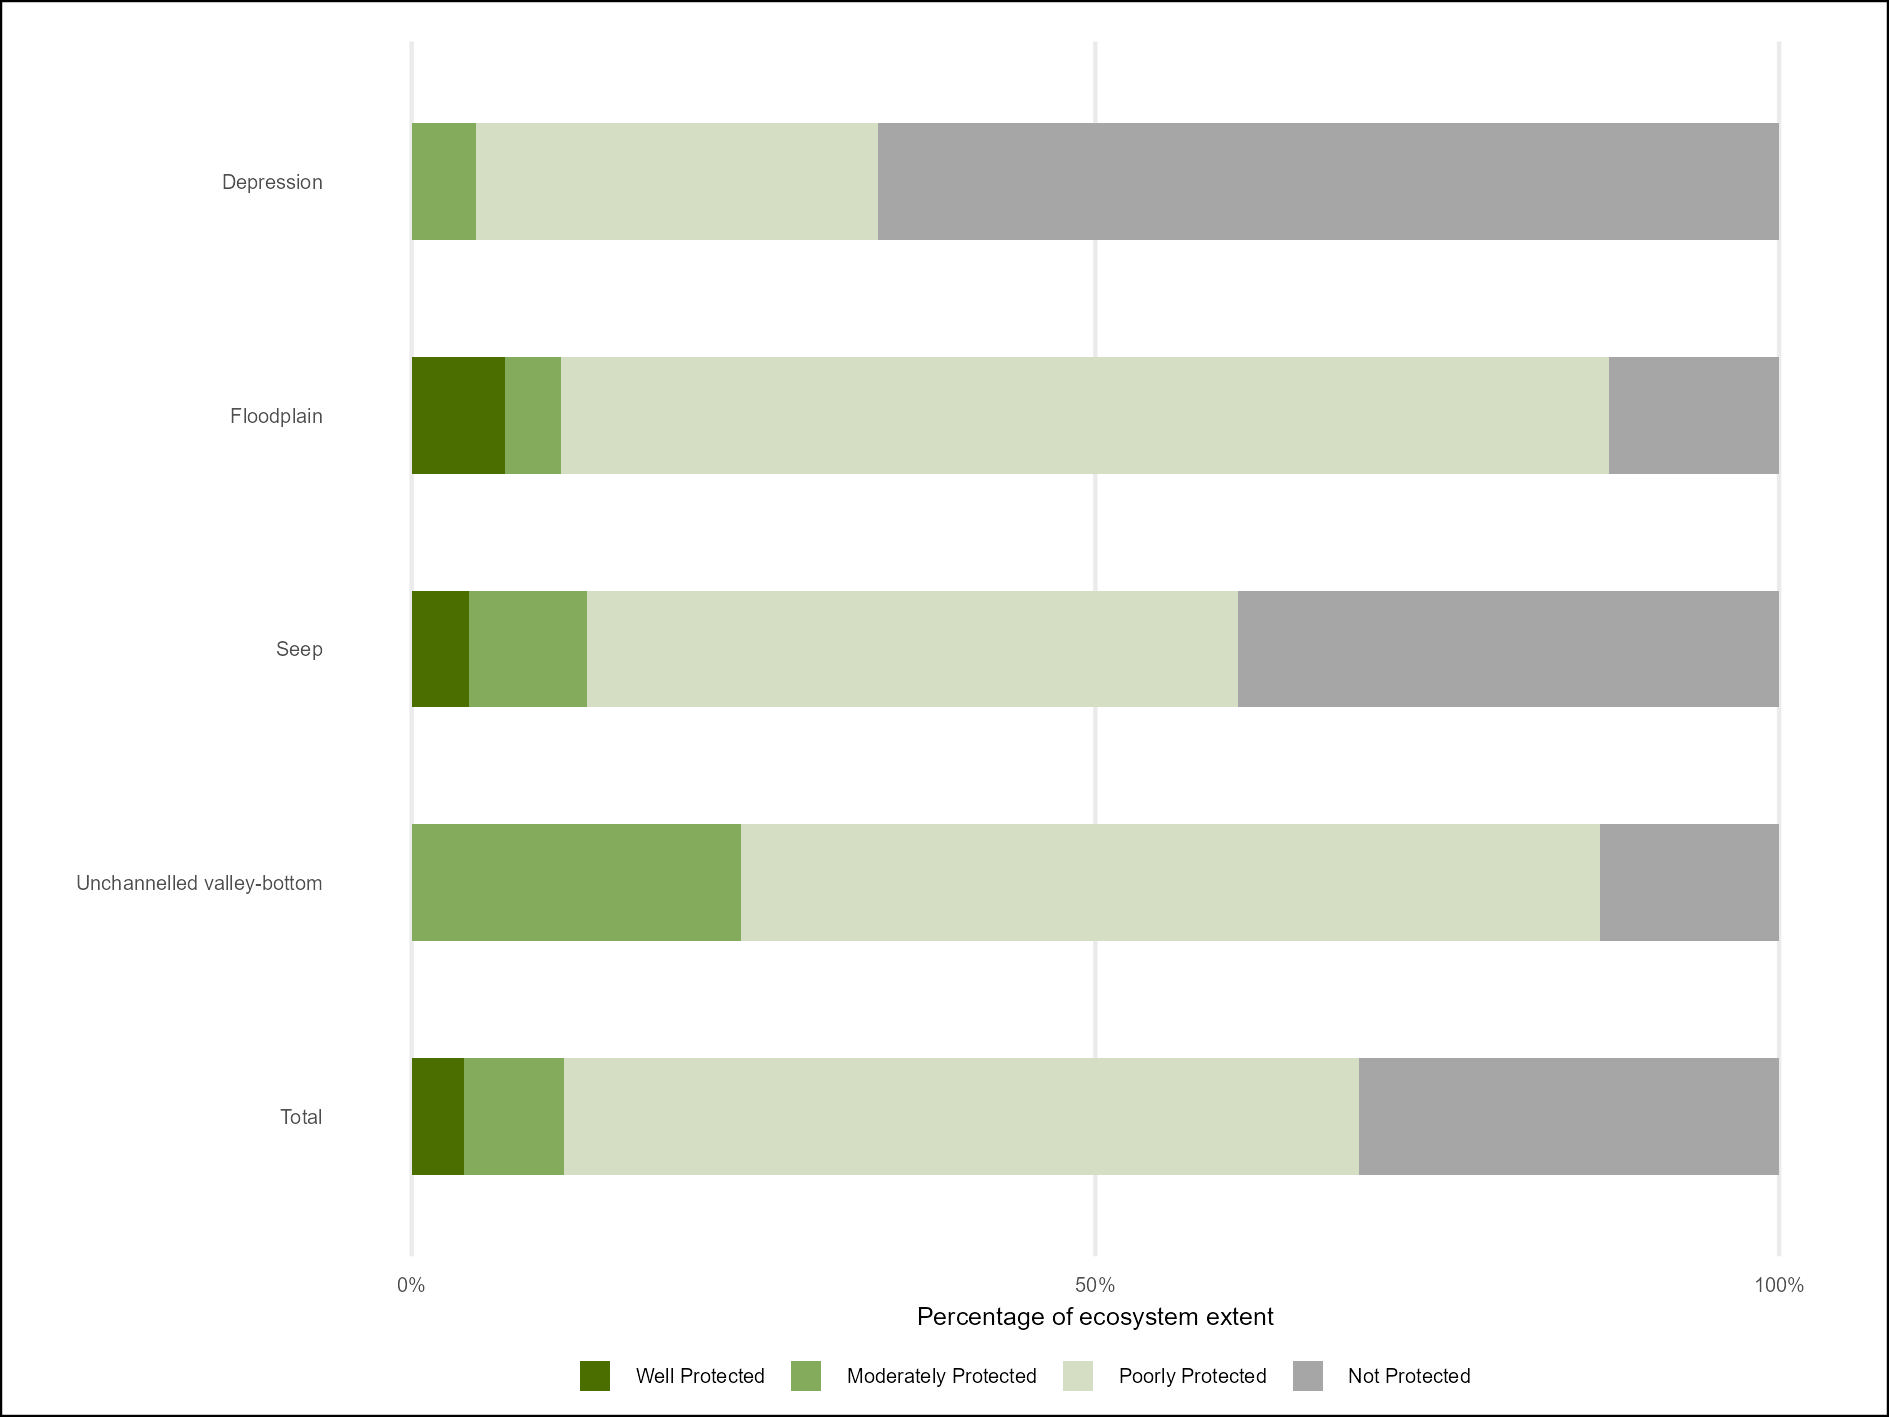
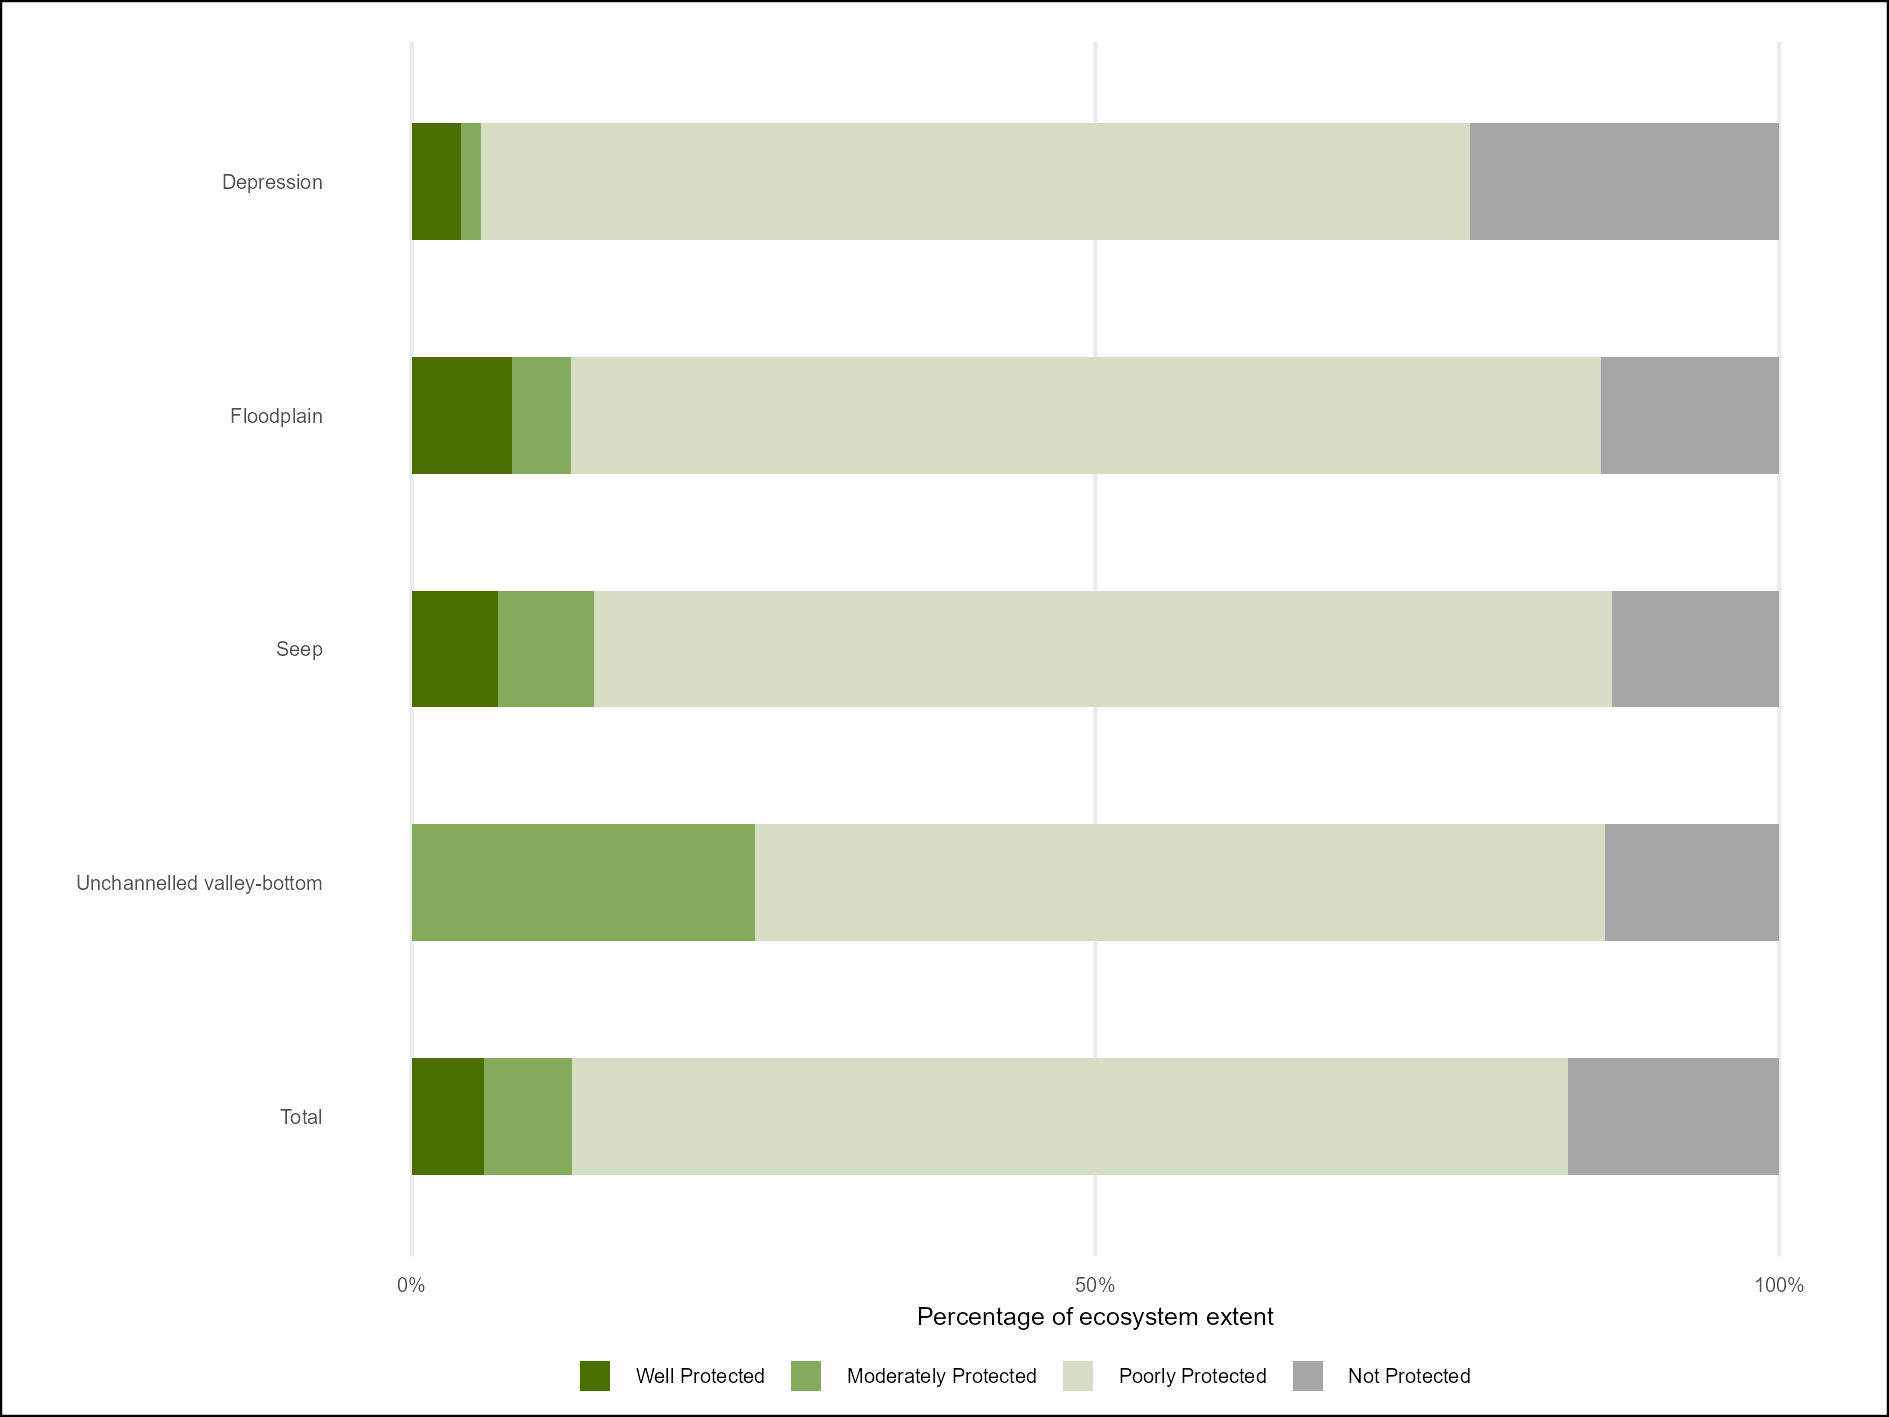
revise EPL model D+C 30% EF 10%

diff --git a/README.md b/README.md
@@ -16,22 +16,24 @@ Protection Level is an indicator developed in South Africa that measures the rep
 
 -   Well Protected: 100% of the PA target within PA network; and only A&B condition wetlands contribute
 
--   Moderately Protected: 50% to 99% of PA target within the PA network; and A&B condition wetlands contribute 100%, C condition wetlands contribute 50%, D condition wetlands contribute 30% and E&F condition wetlands contribute 10%
+-   Moderately Protected: 50% to 99% of PA target within the PA network; and A&B condition wetlands contribute 100%, C & D condition wetlands contribute 30%, E&F condition wetlands contribute 10%
 
--   Poorly Protected: 5% to 49% of PA target within the PA network; and A&B condition wetlands contribute 100%, C condition wetlands contribute 50%, D condition wetlands contribute 30% and E&F condition wetlands contribute 10%
+-   Poorly Protected: 5% to 49% of PA target within the PA network; and A&B condition wetlands contribute 100%, C & D condition wetlands contribute 30%, E&F condition wetlands contribute 10%
 
--   Not Protected: less than 5% of PA target within the PA network; and A&B condition wetlands contribute 100%, C condition wetlands contribute 50%, D condition wetlands contribute 30% and E&F condition wetlands contribute 10%
+-   Not Protected: less than 5% of PA target within the PA network; and A&B condition wetlands contribute 100%, C & D condition wetlands contribute 30%, E&F condition wetlands contribute 10%
 
-The PA target was historically set at 20% for freshwater ecosystems, but with the adoption of the 30% targets for Target 3 of the Global Biodiversity Framework - the PA target was increased to 30% in the EPL calculations (previous time points (2018) were recalculated using this higher target). Ecosystem condition data (based on Wet Health scores) for each time point allow for only good condition wetlands to be considered representative for Well Protected status; while for MP, PP and NP the condition of the wetlands is used to calculate their contribution to meeting targets - higher intergrity / condition wetlands contribute more to meeting PA targets than low integrity / condition wetlands.
+The PA target was historically set at 20% for freshwater ecosystems, but with the adoption of the 30% targets for Target 3 of the Global Biodiversity Framework - the PA target was increased to 30% in the EPL calculations (previous time points (2018) were recalculated using this higher target). Ecosystem condition data (based on Wet Health scores) for each time point allow for only good condition wetlands to be considered representative for Well Protected status; while for MP, PP and NP the condition of the wetlands is used to calculate their contribution to meeting targets - higher integrity / condition wetlands contribute more to meeting PA targets than low integrity / condition wetlands.
 
 #### **Results:**
 
 Overall per-ecosystem type EPL results [epl_wet_metrics_per_type.csv](outputs/epl_wet_metrics_per_type.csv)
 
-Summary table - count of wetland ecosystem types per HGM zone per EPL category [epl24_wet_sum_count.csv](https://github.com/askowno/EPL_riv/blob/main/outputs/epl24_wet_sum_count.csv)
+Summary table - count of wetland ecosystem types per HGM zone per EPL category [epl24_wet_sum_count.csv](https://github.com/askowno/EPL_riv/blob/main/outputs/epl24_wet_sum_count.csv) 19/80 NP (25%); 60/80 PP or NP (75%)
 
 Summary table - extent of wetland per HGM zone per EPL category [epl24_wet_sum_ext.csv](outputs/epl24_rwet_sum_ext.csv)
 
+15% NP but 88% PP or NP
+
 | EPL 2024 - types | EPL 2024 - extent |
-|----|----|
+|------------------------------------|------------------------------------|
 | ![](outputs/epl24_wet_bar_plot_count.jpeg) | ![](outputs/epl24_wet_bar_plot_ext.jpeg) |
